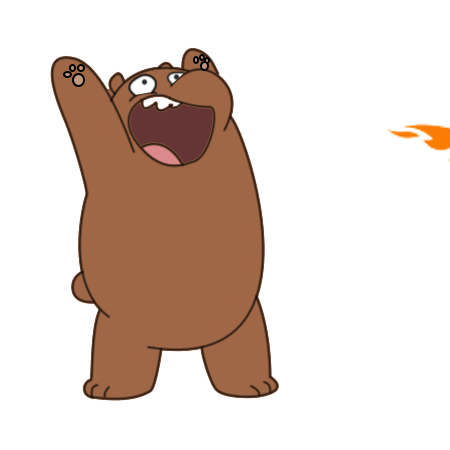
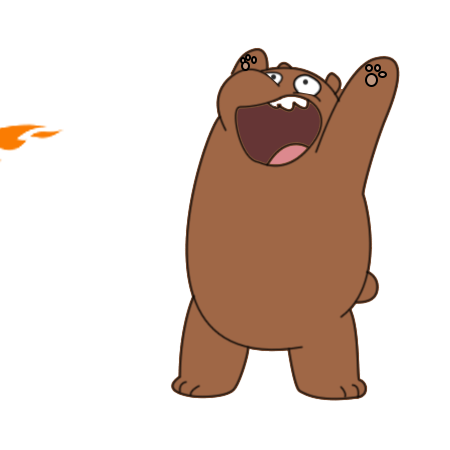
add flip p1 , p2

diff --git a/core/src/com/mygdx/game/Grizzly.java b/core/src/com/mygdx/game/Grizzly.java
@@ -57,9 +57,22 @@ public class Grizzly extends Character {
         }
     }
 
+    private TextureRegion a,b;
     @Override
     public void draw(float time) {
-        batch.draw((TextureRegion)(Assest.grizzlyAnimation[action].getKeyFrame(time,true)) , pos.x,pos.y);
+        //batch.draw((TextureRegion)(Assest.grizzlyAnimation[action].getKeyFrame(time,true)) , pos.x,pos.y);
+        a = (TextureRegion)(Assest.grizzlyAnimation[action].getKeyFrame(time,true));
+        if(whoiam == 1 && a.isFlipX() == false &&  b!= a){
+            a.flip(true,false);
+            b = a;
+        }
+
+        if(whoiam == 1){
+            batch.draw(a,pos.x,pos.y);
+        }else{
+            batch.draw((TextureRegion)(Assest.grizzlyAnimation[action].getKeyFrame(time,true)) , pos.x,pos.y);
+        }
+
     }
 
     @Override

diff --git a/core/src/com/mygdx/game/Panda.java b/core/src/com/mygdx/game/Panda.java
@@ -23,8 +23,8 @@ public class Panda extends Character {
         }
         else if(nextAction == 5){ // drack 400
 
-            atk = 400;
-            hp+=400;
+            atk = 300;
+            hp+=300;
             mana -= 4;
         }
         else if(nextAction == 1){ // normal attack 100 Dmg
